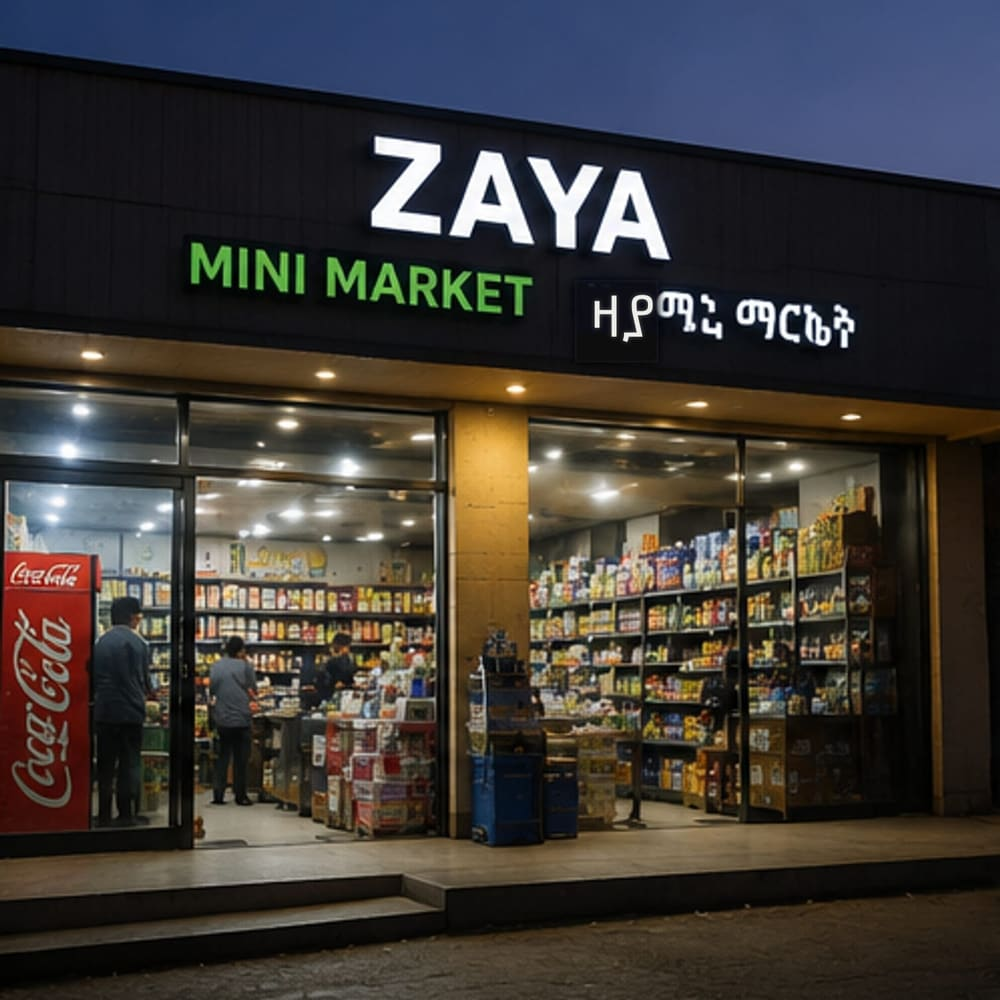
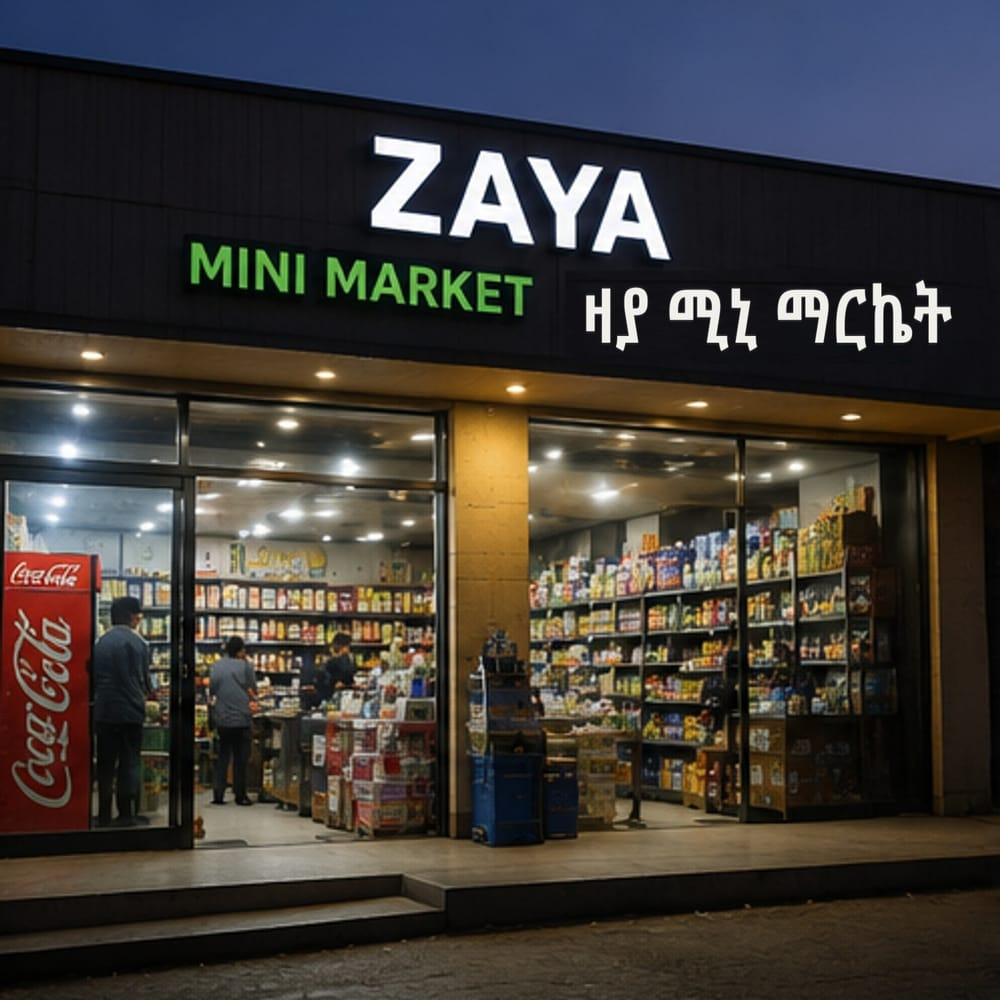
Photos: clear rights gate (founder decision), remove leftovers, fix hero Amharic
- _rights.json cleared:true — AI-generated by founder via ChatGPT (OpenAI), founder-owned,
  synthetic people; founder reviewed + ACCEPTED trademark exposure (Coca-Cola/Nido) 2026-07-08
- Removed 7 unused leftover assets (real-people/CC files); only the founder's 8 images remain;
  CREDITS.md + RIGHTS.md rewritten to match
- Hero Amharic fixed: storefront.jpg + storefront-wide.jpg re-rendered so the sign reads
  "ዛያ ሚኒ ማርኬት" cleanly (clone-erase + condensed Ethiopic text; verified by eye)
- Gate unchanged: photo gate PASSES; production still BLOCKS on published:false. Not live.

Changed region(s): [[0.589, 0.279, 0.961, 0.372]]

diff --git a/src/assets/photos/CREDITS.md b/src/assets/photos/CREDITS.md
@@ -1,17 +1,16 @@
-# Image credits & licenses (attribution required — rights gate)
+# Image credits & rights
 
-## Licensed (Wikimedia Commons — usable commercially WITH attribution)
-- addis-mini-market-night — "01 - Vegetable shop by night in Addis Ababa, Ethiopia"
-  © Jean Rebiffé · CC BY-SA 4.0 · https://commons.wikimedia.org/wiki/File:01_-_Vegetable_shop_by_night_in_Addis_Ababa,_Ethiopia.jpg
-- corner-shopkeeper — "Small Streetside Shop"
-  © Sofoneas A. · CC BY-SA 4.0 · https://commons.wikimedia.org/wiki/File:Small_Streetside_Shop.jpg
-- fruit-vendors-addis — "Ethiopian fruit vendors" · CC BY 2.0
-- banana-vendors-piazza — "Banana Vendors, Piazza District, Addis Ababa" · CC BY-SA 2.0
+All homepage photos are **AI-generated by the founder via ChatGPT (OpenAI image
+generation)** and are **founder-owned** with commercial-use rights under OpenAI's
+terms. They contain **synthetic people only** (no real individuals) and nothing
+confidential — so **no third-party attribution is required**.
 
-ATTRIBUTION IS MANDATORY for CC BY / CC BY-SA: the author + license must appear on
-the page (a visible credit) or a /credits page. CC BY-SA modifications must stay
-share-alike. The site footer + per-image credit lines carry this.
+See `_rights.json` for the full provenance and the founder's accepted-risk decision
+(a real Coca-Cola cooler in the storefront hero and Nestlé "Nido" packaging in
+`customer-app.jpg` — reviewed and accepted by the founder on 2026-07-08).
 
-## Founder-supplied (rights PENDING — not for publish until confirmed)
-- hero_women-baby-kiosk (#7), market-woman-vendor (#1), supermarket (#6)
-  See RIGHTS.md. Prefer commissioned Haile Garment pilot-shop photography.
+Files: `storefront.jpg` · `storefront-wide.jpg` · `counter-sale.jpg` · `supermarket.jpg`
+· `stock-check.jpg` · `credit-book.jpg` · `customer-app.jpg` · `diaspora-family.jpg`
+
+Ideal future upgrade: commissioned photography of the real Haile Garment / Jemo
+pilot shops — drop-in, same filenames.

diff --git a/src/assets/photos/RIGHTS.md b/src/assets/photos/RIGHTS.md
@@ -1,17 +1,15 @@
-# Photo rights — BINDING GATE (founder ruling 2026-07-08)
+# Photo rights — CLEARED (founder ruling 2026-07-08)
 
-APPROVED authentic-Ethiopian images (content-identified from the "Selected Photos" folder):
-- hero_women-baby-kiosk  (#7, PREFERRED HERO) — women + baby at a kiosk
-- market-woman-vendor    (#1) — market woman at her fruit stall
-- supermarket            (#6) — man in an Ethiopian supermarket
+The homepage photos are **AI-generated by the founder via ChatGPT (OpenAI)** and are
+**founder-owned** (commercial-use rights under OpenAI's terms). They show **synthetic
+people only** (no real individuals) and nothing confidential.
 
-DO NOT USE (excluded by the founder):
-- delivery rider with "ተኩስ/Tikus" competitor branding
-- two West-African-attire shots (not authentically Ethiopian)
-- phone-screen/app image (technology image + possible competitor app)
+The founder reviewed the residual **trademark exposure** — a real Coca-Cola cooler in
+the storefront hero and Nestlé "Nido" packaging in `customer-app.jpg` — and, as the
+company owner, **ACCEPTED that risk and elected to proceed** for the pilot.
 
-RIGHTS GATE: none of the approved photos may enter a PUBLISH build until its
-COMMERCIAL USAGE RIGHTS are confirmed. Until then they render as clearly-marked
-placeholders ("Photo · rights pending"). PREFER original/commissioned photography
-of the real Haile Garment pilot shops when available. Enforced with the F4 publish
-gate (scripts/check-publish.mjs + site.published).
+Machine-readable record + the publish gate flag: **`_rights.json`** (`cleared: true`).
+The gate (`scripts/check-publish.mjs`) still blocks publish on `site.published:false`.
+
+Ideal future upgrade: commissioned photography of the real Haile Garment / Jemo pilot
+shops (drop-in, same filenames).